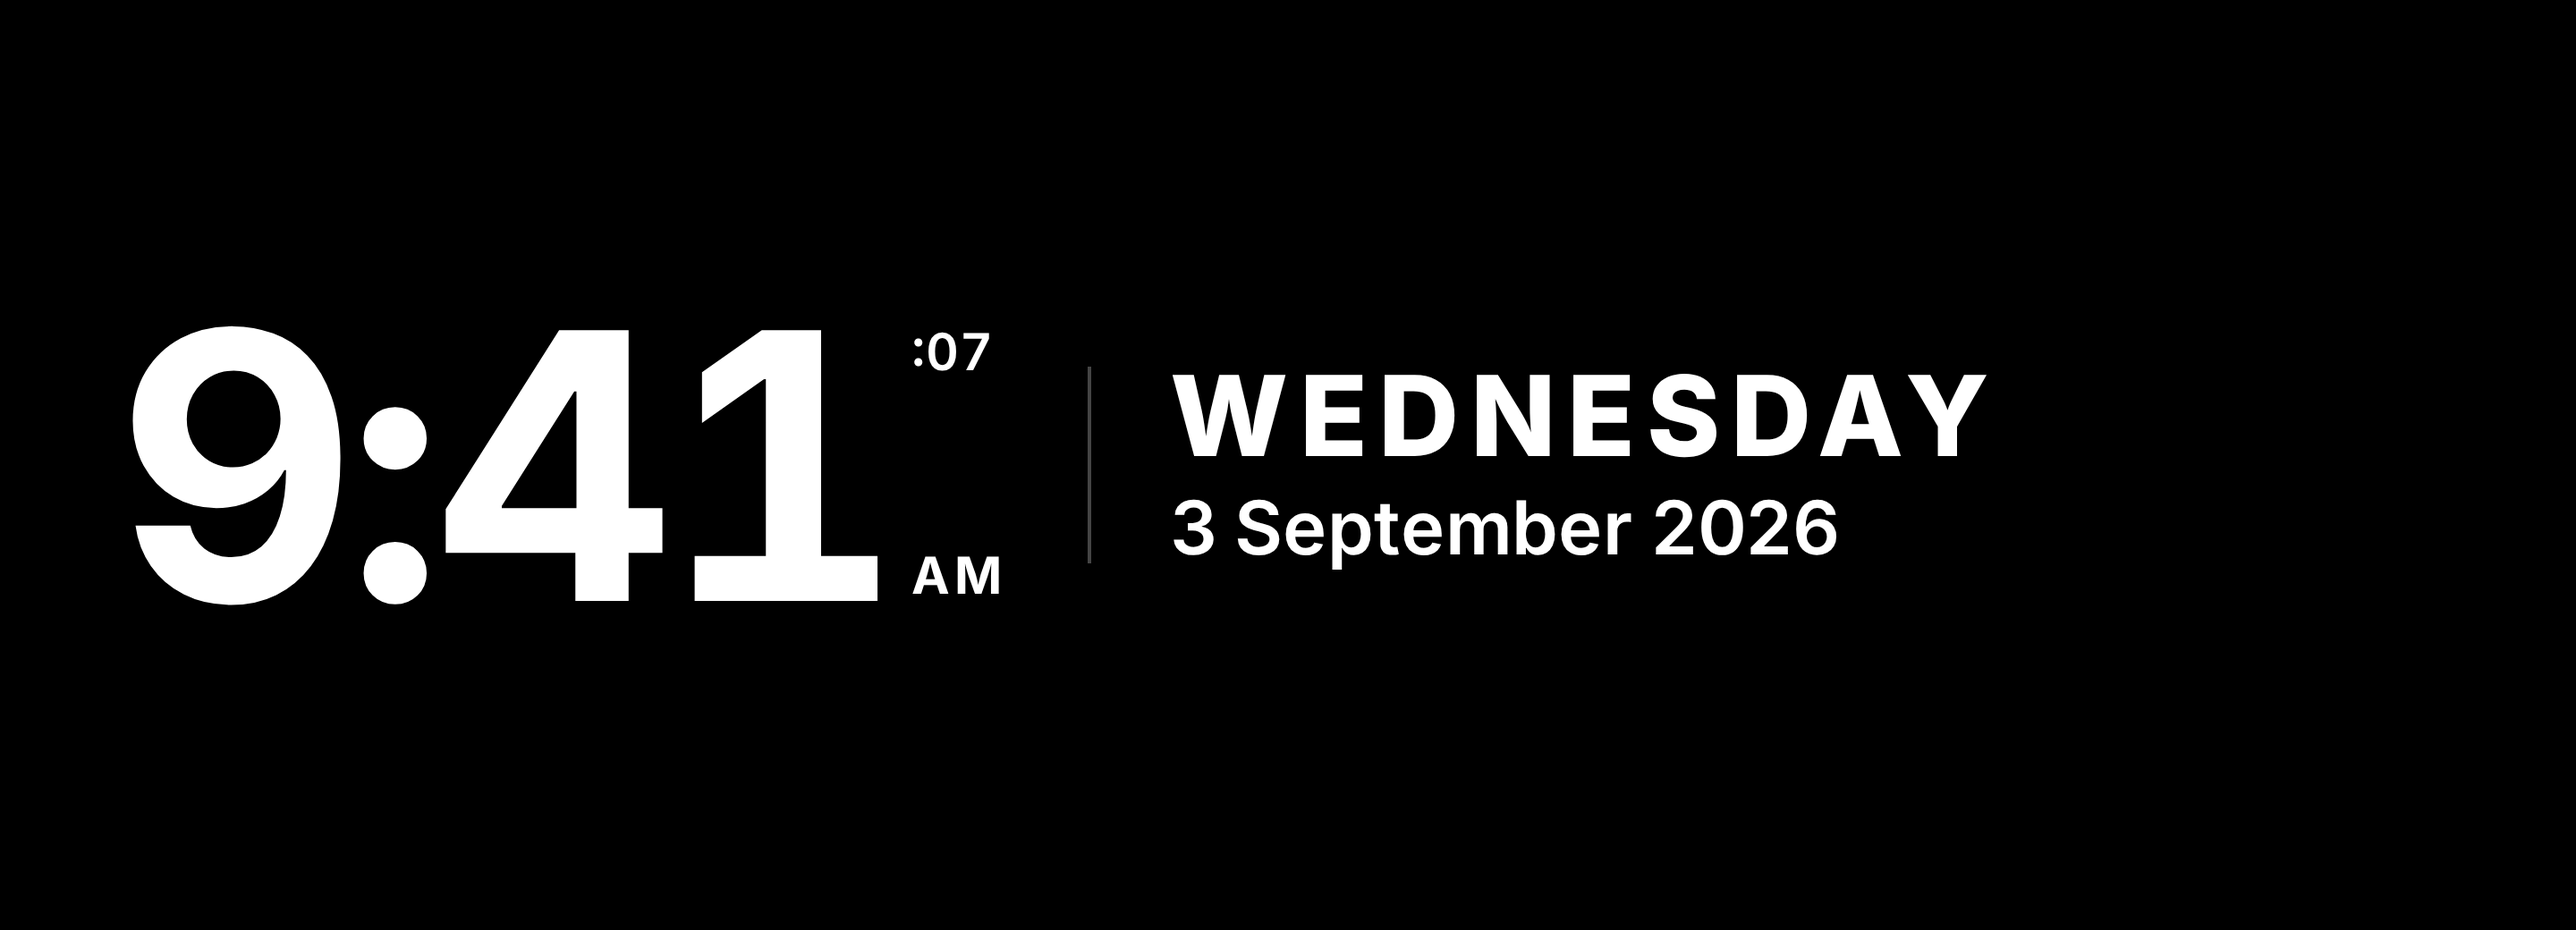
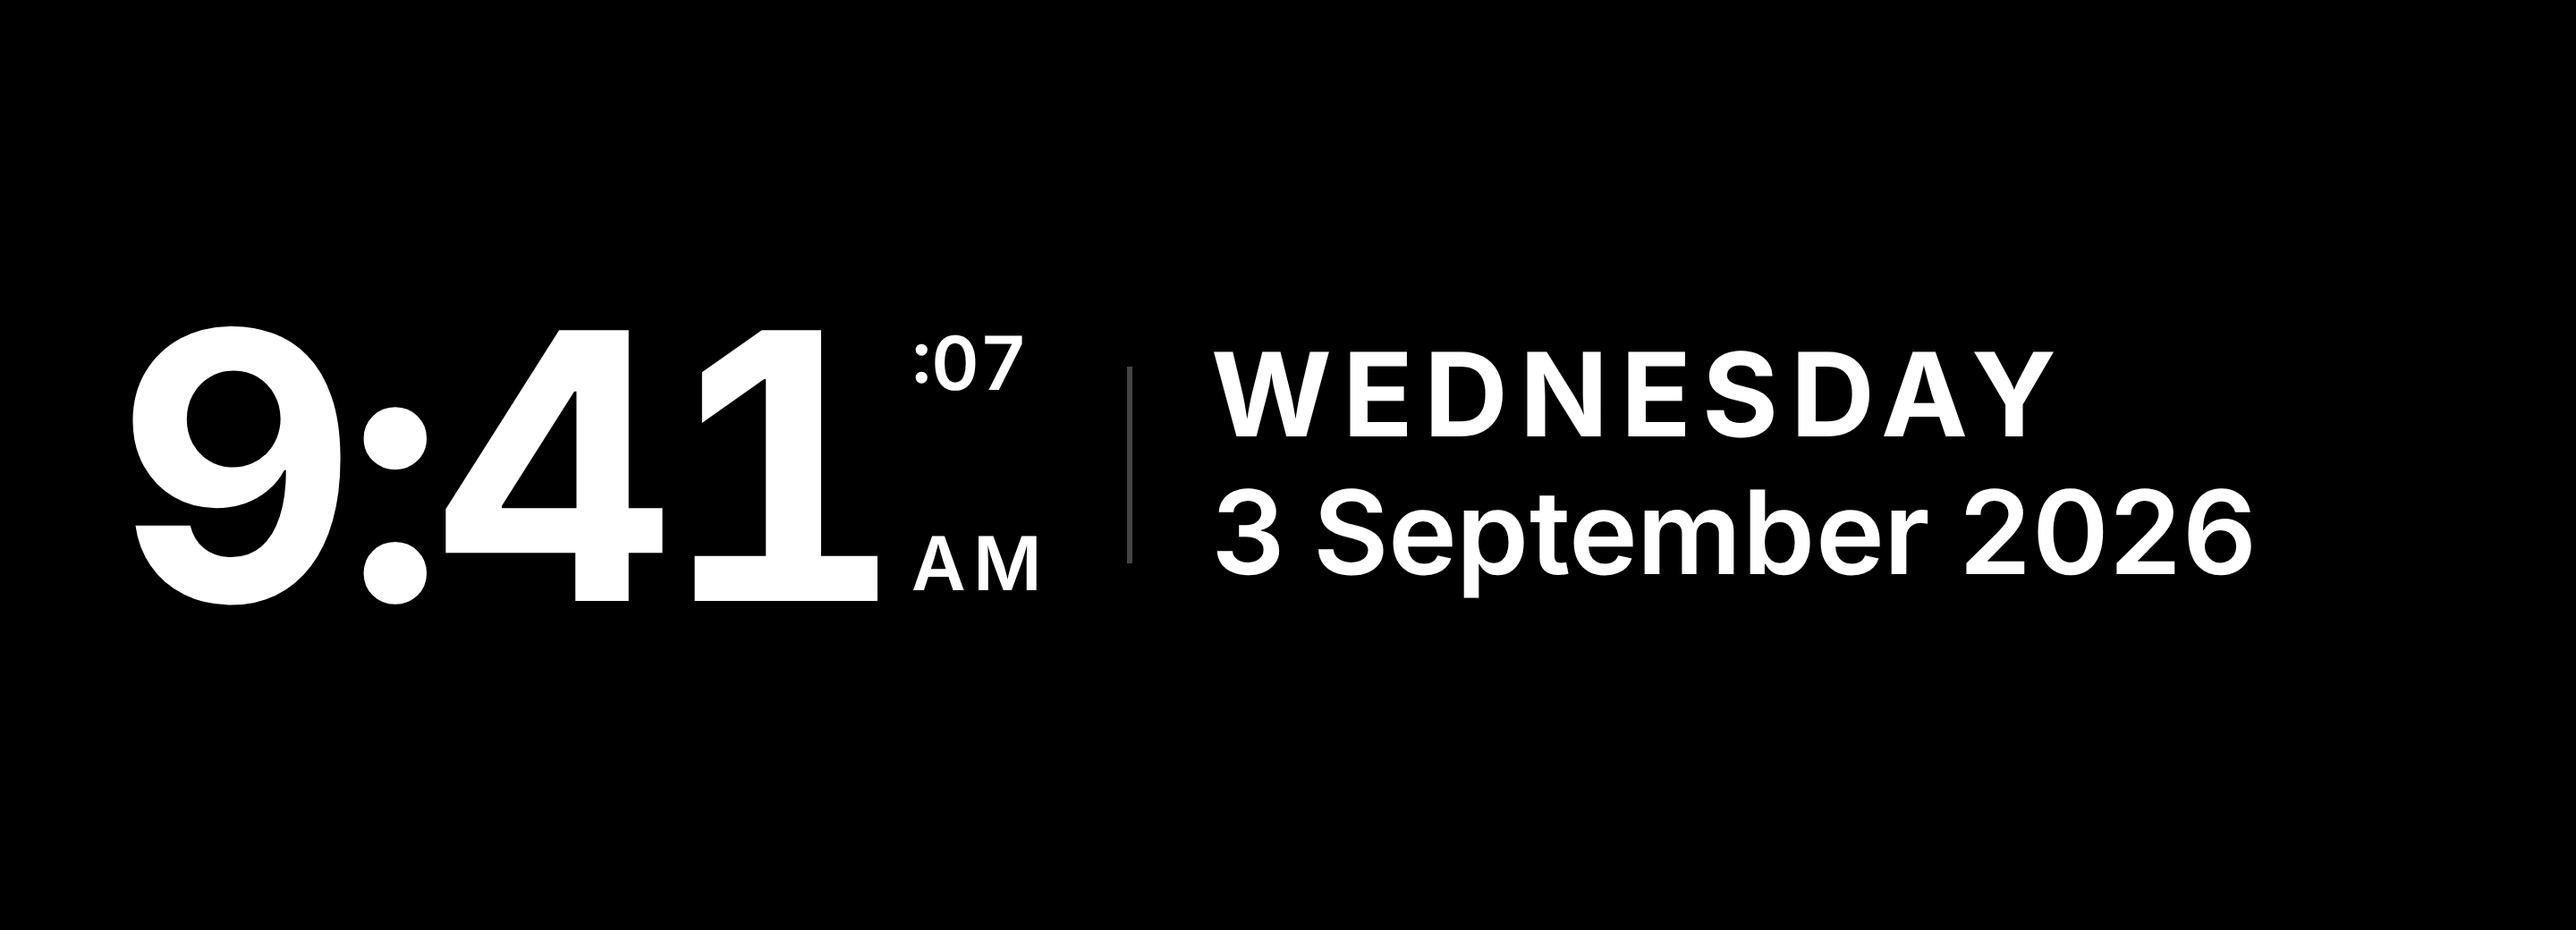
feat(styling): add title and annotation type steps; settle the clock on them
The owner-approved clock "Peers" composition needs two rungs the five-step
scale lacked: a mid `title` step (5vh) for the date read co-equal beside the
display-step time, and a small `annotation` step (3.2vh) for the seconds and
meridiem riding the time. Both are reusable vocabulary — added to the shared
scale rather than invented per module — and both clear the legibility floor.

- display-styling-contract.md: two rows added to the type scale (now seven
  steps); app.css carries the matching --type-title / --type-annotation.
- clock/README.md: the type table now names display / title / title /
  annotation; the weekday-size open question is resolved by `title`.
- clock reference render updated to the settled composition.

Claude-Session: https://claude.ai/code/session_01D9cDgURV29n66aQpfZ1RwD

diff --git a/frontend/src/app.css b/frontend/src/app.css
@@ -38,6 +38,10 @@
   --type-display-weight: 700;
   --type-headline: 10vh;
   --type-headline-weight: 700;
+  --type-title: 5vh;
+  --type-title-weight: 700;
+  --type-annotation: 3.2vh;
+  --type-annotation-weight: 600;
   --type-section-header: 1.9vh;
   --type-section-header-weight: 700;
   --type-section-header-tracking: 0.12em;

diff --git a/docs/contracts/display-styling-contract.md b/docs/contracts/display-styling-contract.md
@@ -57,7 +57,7 @@ scatter rather than one shape.
 
 ## Type scale
 
-Five steps, sized against the display's own height so the scale holds across every resolution the
+Seven steps, sized against the display's own height so the scale holds across every resolution the
 display supports — the same reasoning
 SRS033<!-- Text holds a minimum size against the display, at every resolution --> states for the
 floor beneath all of them. `vh` rather than a device-pixel or root-relative unit, for the same
@@ -67,11 +67,13 @@ reason: it is what survives the panel changing.
 |---|---|---|---|
 | display | `16vh` | 700 | the one hero figure a region is built around (clock face) |
 | headline | `10vh` | 700 | a large standalone stat (current temperature) |
+| title | `5vh` | 700 | a label carried at co-equal presence beside a hero figure (the clock's date beside the time) |
+| annotation | `3.2vh` | 600 | a mark riding a hero figure (the clock's seconds and meridiem) |
 | section-header | `1.9vh`, uppercase, `0.12em` tracking | 700 | a module or group label sitting above a divider |
 | body | `2.2vh` | 500–600 | primary readable content lines |
 | caption | `1.7vh` | 600 | secondary or meta text — labels, units, timestamps |
 
-The floor beneath these five steps is chosen under **Calibrated bounds** below, rather than left to
+The floor beneath these seven steps is chosen under **Calibrated bounds** below, rather than left to
 the check that will assert it — this contract is its origin. Every step sits above the floor;
 `caption` — the smallest — is authored near it deliberately, as glanced meta-text, while the reading
 steps sit well above. An author who needs a step below `caption` checks it against that figure rather

diff --git a/frontend/src/modules/clock/README.md b/frontend/src/modules/clock/README.md
@@ -46,9 +46,9 @@ twelve-hour form (SRS038<!-- The clock's hour form is the one its configuration 
 | Element | Step |
 |---|---|
 | time | `display` — the hero step the scale reserves for the clock face |
-| seconds superscript, meridiem subscript | `caption` |
-| date weekday | uppercase, tracked — larger than the `section-header` step; the step it needs is an open design question (the scale has none between `body` and `headline`) |
-| date day/month/year | `body` |
+| seconds superscript, meridiem subscript | `annotation` |
+| date weekday | `title`, uppercase and tracked |
+| date day/month/year | `title` |
 
 The time and the date are separated by `lg`; within the date, the weekday and the full date by `sm`.
 All figures are `tabular-nums`, so the time re-rendering every second never shifts the layout around
